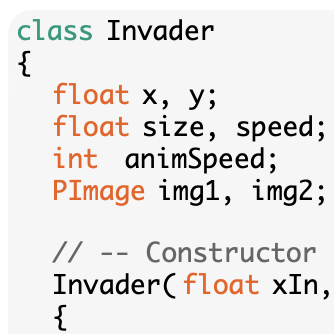
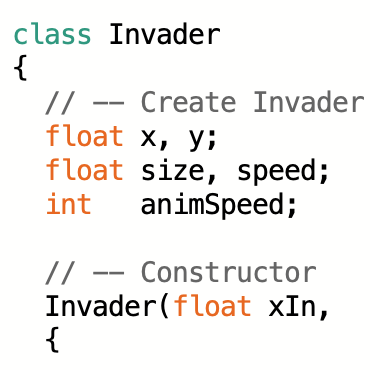
updates images

diff --git a/docs/html/invader/bootCamp.invaderGame.html b/docs/html/invader/bootCamp.invaderGame.html
@@ -131,7 +131,7 @@
 <!-- <p>Use <code><a href="https://processing.org/reference/quad_.html">PImage</a></code> and the <code><a href="https://processing.org/reference/quad_.html">image()</a></code> method to do so.</p> -->
 
 <pre class="brush: processing; gutter: false; toolbar: false; highlight: [6, 17]">
-  PImage invader1, invader2; // <-- declare two PImages as global variables
+  PImage img1, img2; // <-- declare two PImages as global variables
 
   void setup() {
     size(200, 200);
@@ -156,14 +156,14 @@
     <span class="showSolutionButton">&nbsp;<a href="#" class="link-show-code">&nbsp;Show Solution&nbsp;</a> 👈 <b>But Have a Try First!</b> - How do we load a <code>PImage</code> and show it on the canvas?</span>
     <div class="prettyprint" style="display: none;">
       <pre class="brush: processing; gutter: false; toolbar: false; highlight: [7,8,20,21]">
-        PImage invader1, invader2;
+        PImage img1, img2;
 
         void setup() {
           size(200, 200);
         
           // -- initialise the PImages here by loading them from the image URLs
-          invader1 = loadImage("invader11.up.png");
-          invader2 = loadImage("invader11.down.png");
+          img1 = loadImage("invader11.up.png");
+          img2 = loadImage("invader11.down.png");
         
           imageMode(CENTER);
         }
@@ -175,8 +175,8 @@
           text(frameCount, width-40, 12);
         
           // -- use image() to draw the images here
-          image(invader1, width/2, height/4, 50, 50);
-          image(invader2, width/2, 3*height/4, 50, 50);
+          image(img1, width/2, height/4, 50, 50);
+          image(img2, width/2, 3*height/4, 50, 50);
         }</pre>
       </div>
 
@@ -197,7 +197,7 @@
 <code>tint(255)</code> will produce a regular (untinted) image, as will <code><a href="https://processing.org/reference/noTint_.html">noTint()</a></code>.</p>
 
 <pre class="brush: processing; gutter: false; toolbar: false; highlight: [25,26]">
-  PImage invader1, invader2;
+  PImage img1, img2;
 
   int sI = 25;  // &lt;-- Invader size (declare)
   int xI, yI;   // &lt;-- Invader position (declare and initialise)
@@ -205,8 +205,8 @@
   void setup() {
     size(200, 200);
   
-    invader1 = loadImage("invader11.up.png");
-    invader2 = loadImage("invader11.down.png");
+    img1 = loadImage("invader11.up.png");
+    img2 = loadImage("invader11.down.png");
   
     xI = width /2;  // &lt;-- initialise Invader position
     yI = height/2;
@@ -229,7 +229,7 @@
     }
   
     // -- draw the invader:
-    image(invader1, xI, yI, sI, sI);
+    image(img1, xI, yI, sI, sI);
   }
 </pre>
 
@@ -265,12 +265,12 @@
   <li><code>y</code> - position in y</li> 
   <li><code>size</code> - size of the image to be drawn</li> 
   <li><code>speed</code> - speed of movement (<em>pixels per frame</em>)</li> 
-  <li><code>animSpeed</code> - speed of animation (<em>more about this later, just go with it as a 5th unused parameter for now</em>)</li> 
+  <li><code>animSpeed</code> - speed of animation (<em>more about this later, just go with it as a 5th unused parameter for now: #forwardPlanning</em>)</li> 
 </ul>
 <p>So we might declare and instantiate a new Invader object called <code>mySpaceInvader</code> with ...</p>
 <pre>Invader mySpaceInvader = new Invader(width/2, height/2, 100, 3, 50) </pre>
 <p>Use this code snippet as the basis of your class and complete the constructor.</p>
-<pre class="brush: processing; gutter: false; toolbar: false; highlight: [12,13,14]">
+<pre class="brush: processing; gutter: false; toolbar: false; highlight: [11,12,13,14]">
   class Invader
   {
     // -- Create Invader with 7 fields - variables that are accessible to all methods in the class:
@@ -290,7 +290,7 @@
   </pre>
 
   <p>&nbsp;</p>
-  <p>Check whether your class works by creating a new Invader object by adding the code that we suggested above in <code>setup()</code>.</p>
+  <p>Check whether your class works by creating a new Invader object. Simply add the code that we suggested above to the <code>setup()</code> method.</p>
   <pre>Invader mySpaceInvader = new Invader(width/2, height/2, 100, 3, 50); </pre>
   <p>We won't see anything, as we haven't drawn it. But if this instantiation runs without an error, then we have successfully defined a class to define Invaders, and created an instance of that class: an invader - '<code>mySpaceInvader</code>'</p>
 
@@ -298,7 +298,7 @@
 <hr class="solutionButton"/>
         <span class="showSolutionButton">&nbsp;<a href="#" class="link-show-code">&nbsp;Show Solution&nbsp;</a> 👈 <b>But Have a Try First!</b> - How do we get the values of the arguments passed into the Invader into the fields in the object we create?</span>
     <div class="prettyprint" style="display: none;">
-      <pre class="brush: processing; gutter: false; toolbar: false; highlight: [13,14,15,16,17]">
+      <pre class="brush: processing; gutter: false; toolbar: false; highlight: [11,12,13,14,15,16]">
         class Invader
         {
           // -- Create Invader with 7 fields - variables that are accessible to all methods in the class:
@@ -328,10 +328,11 @@
 
 <h3>Step 5. Add a draw() Method to the Invader Class</h3>
 <p>OK - but we want to see the Invader! So we need to draw it.</p>
-<p>Add a <code>draw()</code> method under the constructor, to the Invader class.<br/>This will allow us to display any Invader that we create when it is called.</p>
+<p>Add a <code>draw()</code> method to the Invader class, under the constructor.<br/>
+  This will allow us to display any Invader that we create when it is called.</p>
 <p>This should to draw the Invader by putting a <code>PImage</code> on the canvas at <code>x</code>,<code>y</code> - but how do we actually draw the Invader?</p>
 
-<pre class="brush: processing; gutter: false; toolbar: false; highlight: [27]">
+<pre class="brush: processing; gutter: false; toolbar: false; highlight: [22]">
   class Invader
   {
     // -- Create Invader with 7 fields - variables that are accessible to all methods in the class:
@@ -348,7 +349,6 @@
       size=sizeIn;
       speed=speedIn;
       animSpeed=animIn;
-  
     }
     
     // -- draw method:  
@@ -381,7 +381,7 @@
 <p>This may seem like a lot of work for a little gain right now, but we will reap the rewards later when it becomes easy to create many Invaders ... should we need them.</p>
 
 <pre class="brush: processing; gutter: false; toolbar: false; highlight: [3, 20,21,22, 31,32]">
-  PImage invader1, invader2;
+  PImage img1, img2;
 
   Invader spaceInvader1, spaceInvader2, spaceInvader3; // <-- declare and Invaders called spaceInvader1, 2 and 3
   
@@ -392,8 +392,8 @@
     size(200, 200);
   
     // -- load the images that the Invader objects use:
-    invader1 = loadImage("invader11.up.png");
-    invader2 = loadImage("invader11.down.png");
+    img1 = loadImage("invader11.up.png");
+    img2 = loadImage("invader11.down.png");
   
     x = width /2;
     y = height/2;
